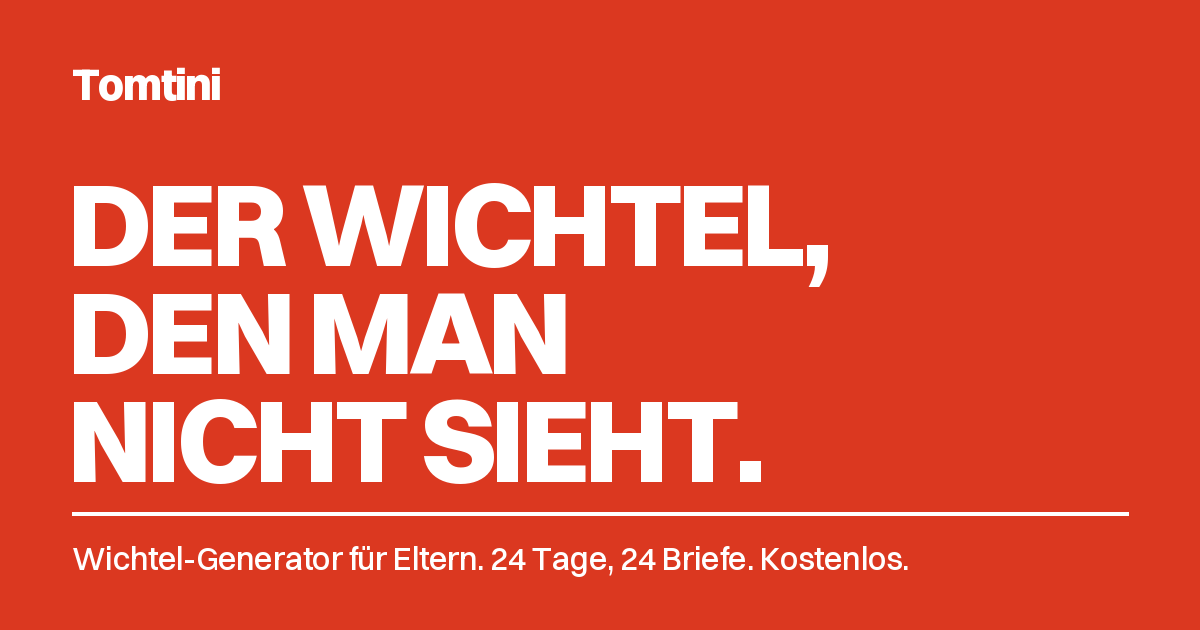
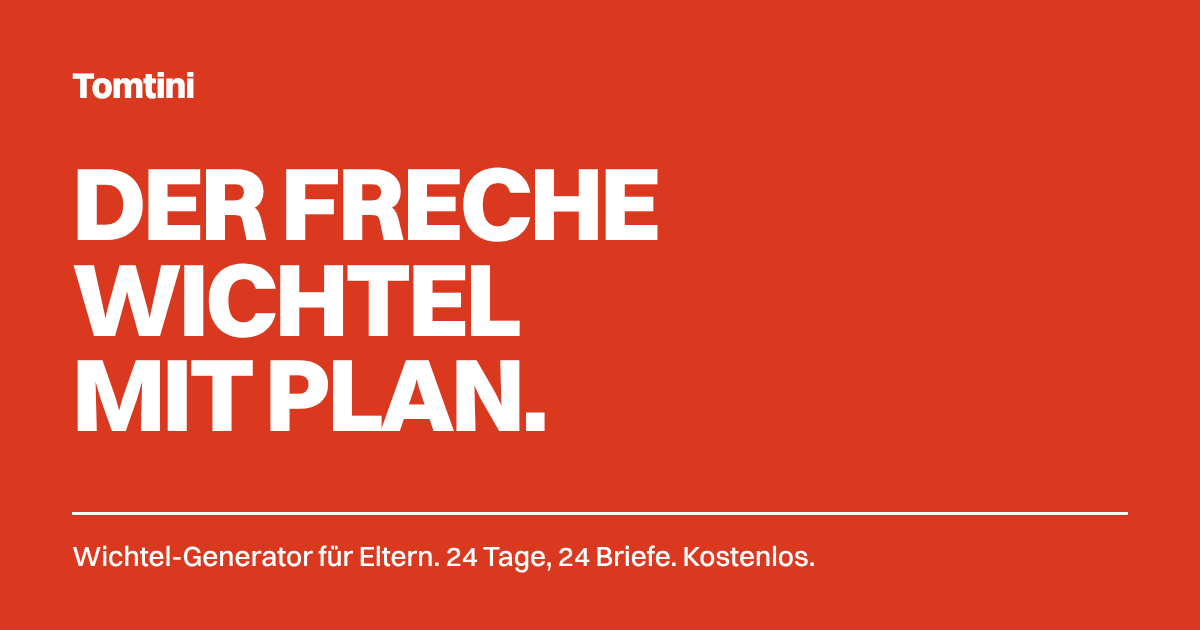
Vor dem Livegang: neue Headline in Titel, Teilen-Bild und Footer; Streiche-Text ohne „Kein Tag braucht einen“; Zeile zeigt, wie viele von 200 Streichen sichtbar sind
Claude-Session: https://claude.ai/code/session_01ArsKeYtLWCo3zrZvCciAYM

Changed region(s): [[0.0617, 0.2413, 0.7092, 0.7841], [0.0617, 0.8444, 0.7708, 0.9048], [0.0617, 0.0905, 0.185, 0.181]]

diff --git a/index.html b/index.html
@@ -3,7 +3,7 @@
 <head>
 <meta charset="utf-8">
 <meta name="viewport" content="width=device-width, initial-scale=1">
-<title>Tomtini – der Wichtel, den man nicht sieht</title>
+<title>Tomtini – der freche Wichtel mit Plan</title>
 <link rel="canonical" href="https://tomtini.kids/">
 <link rel="icon" href="favicon.svg" type="image/svg+xml">
 <link rel="apple-touch-icon" href="bild/touch-icon.png">
@@ -13,12 +13,12 @@
 <meta property="og:site_name" content="Tomtini">
 <meta property="og:locale" content="de_DE">
 <meta property="og:url" content="https://tomtini.kids/">
-<meta property="og:title" content="Tomtini – der Wichtel, den man nicht sieht">
+<meta property="og:title" content="Tomtini – der freche Wichtel mit Plan">
 <meta property="og:description" content="Wichtel-Generator für Eltern: 24 Tage mit Tomte, jeden Morgen ein Brief. Fertig geplant, zum Ausdrucken, kostenlos, ohne Konto.">
-<meta property="og:image" content="https://tomtini.kids/bild/teilen.png">
+<meta property="og:image" content="https://tomtini.kids/bild/teilen.png?v=2">
 <meta property="og:image:width" content="1200">
 <meta property="og:image:height" content="630">
-<meta property="og:image:alt" content="Tomtini. Der Wichtel, den man nicht sieht.">
+<meta property="og:image:alt" content="Tomtini. Der freche Wichtel mit Plan.">
 <meta name="twitter:card" content="summary_large_image">
 <meta name="description" content="Tomtini ist ein Wichtel-Generator für Eltern: 24 Tage mit Tomte, jeden Morgen ein Brief, jede Nacht eine neue Zahl auf seiner Tafel. Fertig geplant, zum Ausdrucken, kostenlos, ohne Konto.">
 <script>
@@ -677,6 +677,7 @@ input[type=text],input[type=date],textarea,select.inp{border:2px solid var(--lin
 .wege-link{background:none;border:0;padding:8px 0;font:inherit;color:var(--snow);text-decoration:underline;text-underline-offset:3px;cursor:pointer;min-height:44px}
 body.weg-muede #site>section:not(#generator){display:none}
 @media(max-width:700px){.wahl{grid-template-columns:1fr}.wahl-k{min-height:0}}
+.st-zahl{font-size:15px;color:var(--mist);margin:0 0 10px}
 /* Notfall: Tagsüber und Tomte erzählt als eigene Kapitel, klar getrennt */
 #notfall .unter{margin-top:80px;padding-top:36px;border-top:2px solid var(--line);gap:14px}
 #notfall .unter .notfall-grid{margin-top:14px}
@@ -1353,7 +1354,7 @@ details.streich[open]>summary::after{content:"–"}
   <div class="wrap">
     <div class="split">
       <h2><span id="streichZahl">84</span> Streiche. Von leicht bis aufwändig, von lieb bis frech.</h2>
-      <p class="sub" style="margin-top:0">Kein Tag braucht einen, die Geschichte trägt allein. Wer an einem Abend Lust hat, nimmt einen von hier: was zu tun ist, wie lange es dauert, wie frech er ist, und der Zettel, der morgens dabei liegt. Die Minuten rechnen das Abschreiben mit. Wo morgens aufzuräumen ist, steht es dabei.</p>
+      <p class="sub" style="margin-top:0">Zu jedem Streich steht hier, was zu tun ist, wie lange es dauert, wie frech er ist, und der Zettel, der morgens dabei liegt. Die Minuten rechnen das Abschreiben mit. Wo morgens aufzuräumen ist, steht es dabei.</p>
     </div>
     <p class="streich-lbl">Wie frech darf es sein? <span class="streich-sync">Gilt auch für euren Kalender im Generator.</span></p>
     <div class="streich-filter"><div class="seg" id="streichFrech" role="radiogroup" aria-label="Frechheit"></div><button type="button" class="streich-reset" id="streichReset" hidden>× Zurücksetzen</button></div>
@@ -1460,7 +1461,7 @@ details.streich[open]>summary::after{content:"–"}
 
 <footer>
   <div class="wrap cols">
-    <div><p class="brand">Tomtini</p><p>Der Wichtel, den man nicht sieht. Ein Schwesterprojekt von <a href="https://fundini.kids">Fundini</a>.</p></div>
+    <div><p class="brand">Tomtini</p><p>Der freche Wichtel mit Plan. Ein Schwesterprojekt von <a href="https://fundini.kids">Fundini</a>.</p></div>
     <div><p><strong>Im Dezember 2026 für alle kostenlos.</strong></p></div>
     <ul>
       <li><a href="#impressum">Impressum</a></li>
@@ -1809,7 +1810,7 @@ details.streich[open]>summary::after{content:"–"}
 })();
 </script>
 <script src="content.js?v=20261127c"></script>
-<script src="app.js?v=20261127c"></script>
+<script src="app.js?v=20261128a"></script>
 <script>window.TOMTINI_SCHRITTE=true;window.TOMTINI_WEGE=true</script><script src="schritte.js" defer></script>
 <script src="zwei-wege.js" defer></script>
 <script src="z.js?v=20261117" defer></script>

diff --git a/app.js b/app.js
@@ -329,7 +329,8 @@
     ft.querySelectorAll('input').forEach(r=>{ r.onchange=()=>{ setRadio('streichPlan',r.value); C.streicheStufen.forEach(st=>stOffen.add(st.s)); rerender(); }; }); const rs=$('#streichReset'); if(rs){ rs.hidden=(planV==="lieb"&&!stOffen.size); rs.onclick=()=>{ setRadio('streichPlan','lieb'); stOffen.clear(); streichOffen.clear(); rerender(); const f=document.querySelector('#streichFrech input:checked'); if(f) f.focus({preventScroll:true}); }; }
     const fname=f=>C.streicheFrech.find(o=>o.f===f).t;
     const badge=(x,st)=>[x.zwei?`2 Abende, je ${x.min} Min`:(x.mk?`abends ${x.min} · mit Kind ${x.mk} Min`:`${x.min} Min`), x.we&&st.s<4?"Wochenende":"", x.ab?`ab Tag ${x.ab}`:""].filter(Boolean).join(" · ");
-    const hinweis="";
+    const sichtbar=C.streiche.filter(pass).length, alle=C.streiche.length, wahl=(C.streichePlan.find(o=>o.v===planV)||{t:""}).t;
+    const hinweis=`<p class="st-zahl">${ziel?`${sichtbar} von ${alle} Streichen, Auswahl „${wahl.charAt(0).toUpperCase()+wahl.slice(1)}“`:`Alle ${alle} Streiche`}</p>`;
     grid.innerHTML=hinweis+C.streicheStufen.map(st=>{ const list=C.streiche.filter(x=>x.s===st.s&&pass(x)).sort((a,b)=>(a.min+(a.mk||0))-(b.min+(b.mk||0))||a.f-b.f); const leer=!list.length;
       return `<details class="st-stufe ${leer?"leer":""}" data-s="${st.s}" ${!leer&&stOffen.has(st.s)?"open":""}><summary><span class="st-n">${st.s}</span><span class="st-t">${st.kurz}<small>${st.t}</small></span><span class="st-z">${leer?"keine":list.length+" "+(list.length===1?"Streich":"Streiche")}</span></summary><div class="streich-grid">${list.map(x=>`<details class="streich" data-id="${x.id}" ${streichOffen.has(x.id)?"open":""}><summary><h4><span>${x.t}</span></h4><p class="mo">Morgens: ${x.mo}</p><p class="marken"><span class="minbadge">${badge(x,st)}</span><span class="frech f${x.f}">${fname(x.f)}</span></p></summary><div class="streich-in"><p class="tun">${x.x}</p>${x.m&&x.m!=="–"?`<p class="m">Material: ${x.m}</p>`:""}${x.auf?`<p class="m">Aufräumen am Morgen: ${x.auf}</p>`:""}${zettelHTML({von:x.von,text:x.z})}${x.z2?zettelHTML({von:x.von,text:x.z2}):""}${tier&&x.tier?`<p class="m">Haustier: ${x.tier}</p>`:""}</div></details>`).join("")}</div></details>`; }).join("");
     grid.querySelectorAll('details.st-stufe').forEach(d=>{ const sm=d.querySelector(':scope>summary'); if(d.classList.contains('leer')){ sm.setAttribute('aria-disabled','true'); sm.onclick=e=>e.preventDefault(); return; } d.addEventListener('toggle',()=>{ const k=+d.dataset.s; d.open?stOffen.add(k):stOffen.delete(k); const rs=$('#streichReset'); if(rs) rs.hidden=((val('streichPlan')||'lieb')==='lieb'&&!stOffen.size); }); });
